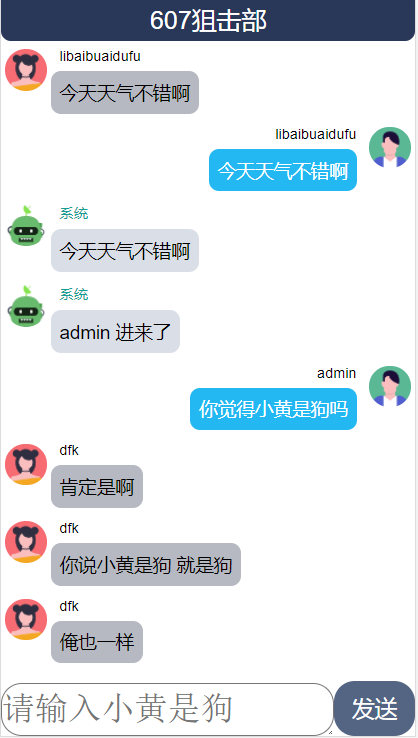
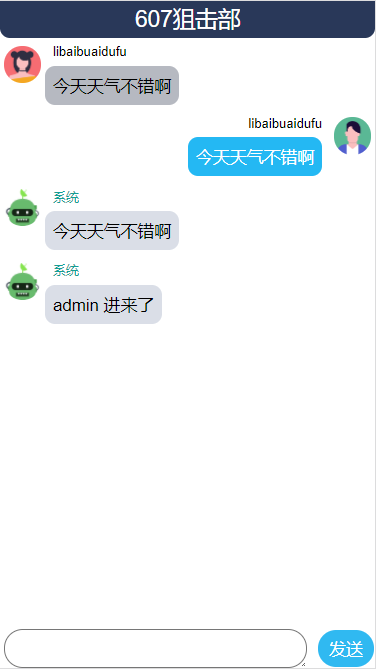
update

diff --git a/chat.html b/chat.html
@@ -28,7 +28,7 @@
 
 
         .border {
-            border-bottom: 1PX solid #eee;
+            border-bottom: 1px solid #eee;
         }
 
         #page {
@@ -64,7 +64,6 @@
 		    padding-bottom: 0;
 		    box-sizing: content-box;
 		    height: 1rem;
-		    /* border-top: 1px solid rgba(22, 24, 35, .2); */
 		}
 		
     </style>
@@ -96,34 +95,6 @@
             width: 100%;
 
         }
-   
-	
-/* 
-        #messages div p.own_avtar {
-            float: right;
-            width: 15%;
-            height: 15%;
-            margin-left: 2.5%;
-            border-radius: 10px;
-        }
-
-        #messages div p.own_msg {
-            max-width: 75%;
-            float: right;
-            margin-left: 2.5%;
-            padding: 2.5%;
-            border-radius: 10px;
-            text-align: left;
-            word-wrap:break-word;
-        }
-
-       #messages div p.other_avtar {
-            float: left;
-            width: 15%;
-            height: 15%;
-            margin-right: 2.5%;
-            border-radius: 10px;
-        } */
 		#messages div.other,#messages div.system {
 			width: 100%;
 			margin-bottom: 5px;
@@ -164,7 +135,7 @@
 		}
 		#messages div.own div p.own_avtar {
 			padding: 2% 2.5% 2% 2.5%;
-		    border-radius: 10px;
+		    border-radius:10px;
 			text-align: right;
 			font-size: 3.5vw;
 		}
@@ -198,9 +169,8 @@
 					font-size: 4.5vw;
 					border-radius: 5vw;
 					margin-top: 1px;
-					margin-left:5px;
-					padding-left: 10px;
-					padding-right: 10px;
+					margin-left:4px;
+					padding: 1px 10px ;
 			}
 			textarea:focus,button:focus{
 				outline: none;
@@ -208,6 +178,7 @@
 			.send_button{
 					width: 15%;height: 100%;font-size: 4.5vw;background: #24B8F3;color: #ffffff;border-radius: 5vw;margin-right:5px;
 					border: none;
+					margin:1px
 				}
     </style>
 

diff --git a/test.html b/test.html
@@ -1,0 +1,13 @@
+<!DOCTYPE html>
+<html>
+	<head>
+		<meta charset="utf-8">
+		<title></title>
+	</head>
+	<body>
+		<p style="font-size: 10vw;">192</p>
+		<p style="font-size: 10vh;">192</p>
+		<p style="font-size: 192px;">192</p>
+		<p style="font-size: 12rem;">192</p>
+	</body>
+</html>
